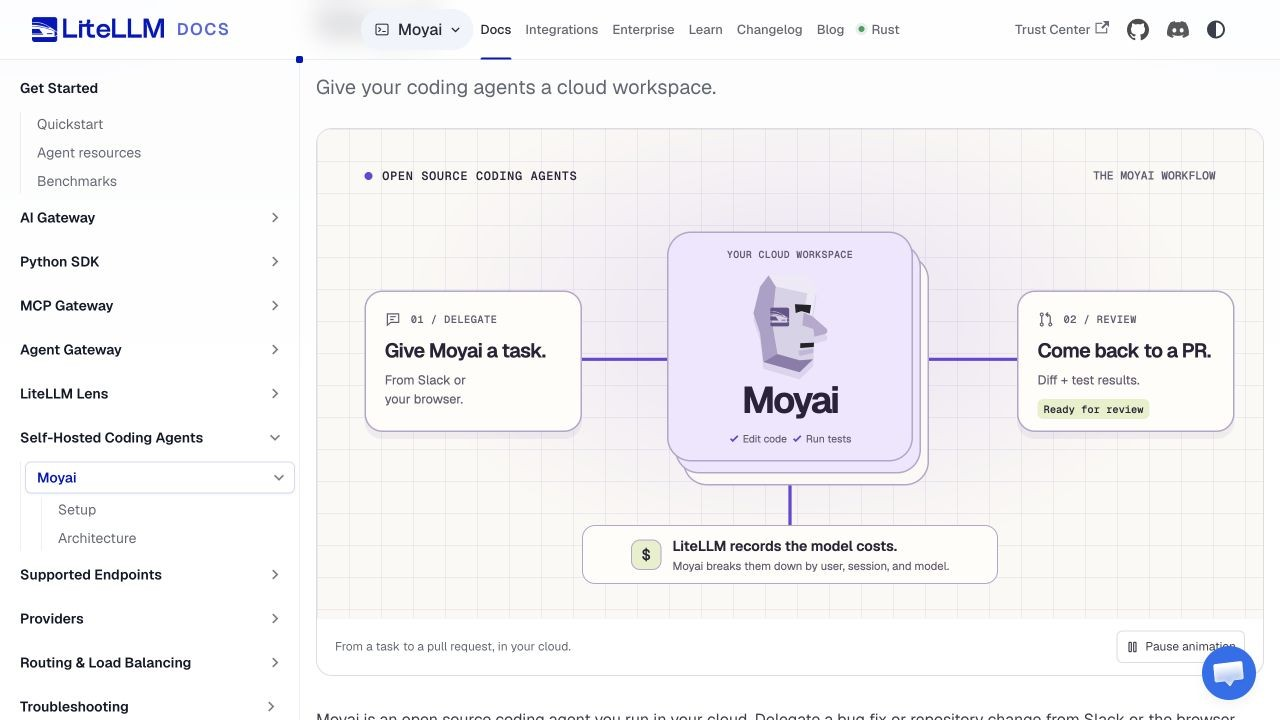
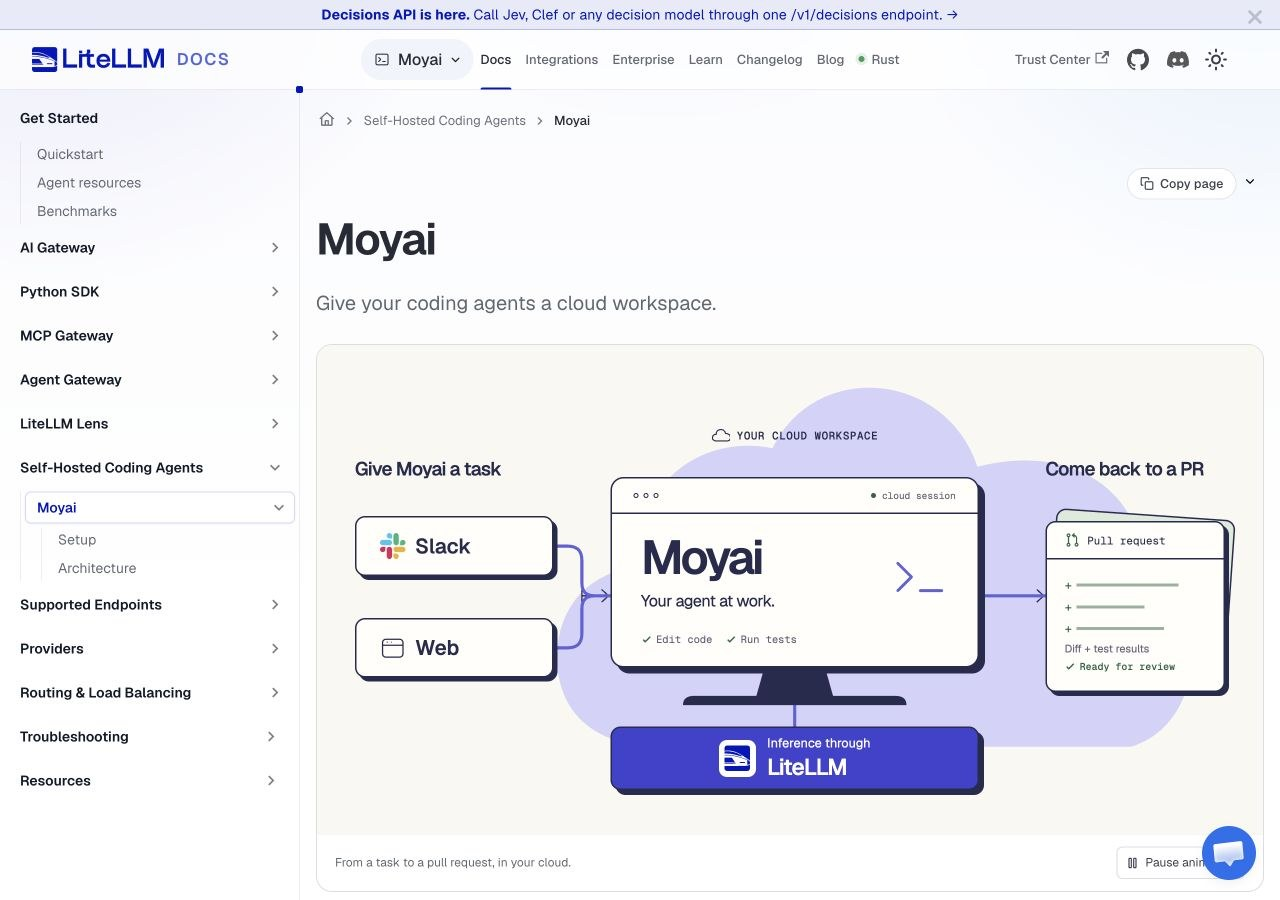
docs: illustrate Moyai task-to-PR cloud workflow

diff --git a/static/animations/moyai-landing/index.html b/static/animations/moyai-landing/index.html
@@ -8,44 +8,53 @@
 @font-face{font-family:Geist;src:url('/animations/internal-devin-two-days/assets/geist-variable.woff2') format('woff2');font-weight:100 900;font-display:swap}
 @font-face{font-family:GeistMono;src:url('/animations/internal-devin-two-days/assets/geist-mono-variable.woff2') format('woff2');font-weight:100 900;font-display:swap}
 *{box-sizing:border-box}html,body{margin:0;width:100%;height:100%;overflow:hidden}
-:root{--ink:#292337;--muted:#655c72;--violet:#6846d6;--paper:#fbf9f5;--card:#fffdf9;--line:#b4a6cc;--lavender:#eee6ff;--sage:#e5efc9;--grid:#c5b9d33d}
-[data-theme=dark]{--ink:#f2ecff;--muted:#c1b5d2;--violet:#b69afc;--paper:#211c2b;--card:#2b2537;--line:#79668d;--lavender:#382b51;--sage:#33432e;--grid:#ae91cd1f}
-.stage{width:100%;height:100%;position:relative;container-type:inline-size;font-family:Geist,Arial,sans-serif;color:var(--ink);background:var(--paper)}
-.scene{position:absolute;inset:0;background-image:linear-gradient(var(--grid) 1px,transparent 1px),linear-gradient(90deg,var(--grid) 1px,transparent 1px);background-size:32px 32px}
-.scene::before{content:'';position:absolute;inset:0;background:radial-gradient(ellipse at 51% 39%,#ad8bec36,transparent 58%);pointer-events:none}
-.eyebrow{position:absolute;top:8%;left:5%;display:flex;align-items:center;gap:10px;font:500 1.25cqw GeistMono,monospace;letter-spacing:.06em;text-transform:uppercase}
-.eyebrow i{width:8px;height:8px;border-radius:50%;background:var(--violet)}
-.corner{position:absolute;top:8%;right:5%;color:var(--muted);font:500 1.2cqw GeistMono,monospace}
-.wires{position:absolute;inset:0;width:100%;height:100%;overflow:visible}
-.wires path{fill:none;stroke:var(--line);stroke-width:2;stroke-linecap:round}
-.wires .signal{stroke:var(--violet);stroke-width:4}
-.node{position:absolute;top:33%;width:23%;height:29%;border:1.5px solid var(--line);border-radius:18px;background:var(--card);padding:2cqw;box-shadow:0 7px 0 #a895c522}
-.task{left:5%}.result{left:74%}
-.node-label{display:flex;align-items:center;gap:9px;font:500 1.1cqw GeistMono,monospace;letter-spacing:.04em;text-transform:uppercase;color:var(--muted)}
-.node-label svg{width:1.8cqw;height:1.8cqw;flex-shrink:0}
-.node h2{font-size:2.1cqw;line-height:1.2;letter-spacing:-.03em;margin:1.2cqw 0 .8cqw;font-weight:600}
-.node p{font-size:1.35cqw;line-height:1.5;margin:0;color:var(--muted)}
-.workspace{position:absolute;left:37%;top:21%;width:26%;height:47%;isolation:isolate}
-.plate{position:absolute;inset:0;border:1.5px solid var(--line);border-radius:24px;background:var(--lavender);z-index:0;transform:translate(8px,12px)}
-.plate.back{transform:translate(16px,24px);background:var(--paper)}
-.surface{height:100%;position:relative;z-index:1;display:flex;align-items:center;flex-direction:column;justify-content:center;border:1.5px solid var(--line);border-radius:24px;background:var(--lavender);padding:1.4cqw 1.1cqw}
-.cloud-label{font:500 1.05cqw GeistMono,monospace;color:var(--muted);letter-spacing:.035em;text-transform:uppercase}
-.moyai-logo{display:block;height:11.2cqw;width:9cqw;object-fit:contain;margin:1cqw 0 .6cqw;filter:drop-shadow(0 7px 0 #38285218)}
-.wordmark{font-size:3.9cqw;font-weight:650;line-height:1;letter-spacing:-.055em}
-.steps{display:flex;justify-content:center;gap:.5cqw;width:100%;margin-top:1.4cqw}
-.step{display:flex;align-items:center;gap:.3cqw;color:var(--muted);font-size:1.1cqw;white-space:nowrap}
-.step svg{width:1.2cqw;height:1.2cqw;stroke:var(--violet);stroke-width:2.5;fill:none}
-.receipt{position:absolute;left:28%;top:81%;width:44%;height:12%;display:flex;align-items:center;justify-content:center;gap:1.2cqw;border:1px solid var(--line);border-radius:13px;background:var(--card)}
-.receipt .symbol{display:grid;place-items:center;width:3.2cqw;height:3.2cqw;border:1px solid var(--line);border-radius:9px;background:var(--sage);font:500 1.6cqw GeistMono,monospace}
-.receipt strong{font-size:1.5cqw;font-weight:600}.receipt p{margin:3px 0 0;color:var(--muted);font-size:1.2cqw}
-.done{display:inline-flex;align-items:center;gap:.5cqw;margin-top:1cqw;padding:.35cqw .65cqw;border-radius:6px;background:var(--sage);font:500 1.1cqw GeistMono,monospace;color:var(--ink)}
+:root{--bg:#faf8f2;--ink:#292b4e;--paper:#fffefa;--muted:#64647a;--cloud:#d4d3fa;--blue:#4142cf;--edge:#292b4e;--shadow:#292b4e;--sage:#dcebdc;--green:#286441;--accent:#6261d8}
+[data-theme=dark]{--bg:#202135;--ink:#f6f3ea;--paper:#303149;--muted:#c3c0d2;--cloud:#44446b;--edge:#9c9aba;--shadow:#131421;--sage:#344b41;--green:#c4ead4;--accent:#c2bbff}
+.stage{width:100%;height:100%;position:relative;container-type:inline-size;background:var(--bg);color:var(--ink);font-family:Geist,Arial,sans-serif}
+.scene{position:absolute;inset:0}
+.cloud-art{position:absolute;left:24%;top:5%;width:69%;height:85%;fill:var(--cloud)}
+.cloud-caption{position:absolute;left:31%;top:17%;width:39%;display:flex;align-items:center;justify-content:center;gap:.7cqw;font:500 1.15cqw GeistMono,monospace;letter-spacing:.05em}
+.cloud-caption svg{width:2cqw;height:1.6cqw;fill:none;stroke:currentColor;stroke-width:1.7}
+.section-label{position:absolute;top:23%;margin:0;font-size:2cqw;font-weight:550;letter-spacing:-.035em;line-height:1.2}
+.task-label{left:4%;width:23%}.result-label{left:77%;width:20%}
+.source-group{position:absolute;left:4%;top:35%;width:21%;height:33%}
+.source{position:absolute;width:100%;height:37%;border:1.6px solid var(--edge);border-radius:10px;background:var(--paper);display:flex;align-items:center;padding:0 12%;gap:1cqw;box-shadow:4px 4px 0 var(--shadow);font-size:2.2cqw;font-weight:550}
+.source img,.source svg{width:2.7cqw;height:2.7cqw;flex:none}.slack{top:0}.web{bottom:0}
+.wires{position:absolute;inset:0;width:100%;height:100%;fill:none;stroke:var(--edge);stroke-width:1.6}
+.wires .signal{stroke:var(--accent);stroke-width:4;stroke-linecap:round}
+.computer{position:absolute;left:31%;top:27%;width:39%;height:39%;border:1.6px solid var(--edge);border-radius:13px;background:var(--paper);box-shadow:6px 6px 0 var(--shadow);z-index:2;overflow:hidden}
+.chrome{height:19%;border-bottom:1.5px solid var(--edge);display:flex;align-items:center;justify-content:space-between;padding:0 6%;font:400 1cqw GeistMono,monospace;color:var(--muted)}
+.chrome-dots{display:flex;gap:5px}.chrome-dots i{width:5px;height:5px;border:1px solid var(--edge);border-radius:50%}
+.session-indicator{display:flex;align-items:center;gap:6px}.session-indicator i{width:5px;height:5px;border-radius:50%;background:var(--green)}
+.workspace{height:81%;display:flex;flex-direction:column;justify-content:center;padding:4% 8%}
+.name{font-size:5cqw;font-weight:600;letter-spacing:-.06em;line-height:1}
+.tagline{font-size:1.7cqw;letter-spacing:-.025em;margin-top:3%}
+.tools{display:flex;gap:1.4cqw;margin-top:7%;font:400 1.1cqw GeistMono,monospace;color:var(--muted)}
+.tools span{display:flex;align-items:center;gap:.4cqw}.tools svg{width:1.2cqw;height:1.2cqw;stroke:var(--green);stroke-width:2;fill:none}
+.code-mark{position:absolute;right:8%;top:40%;width:16%;height:25%;color:var(--accent);fill:none;stroke:currentColor;stroke-width:3;stroke-linecap:round;stroke-linejoin:round}
+.stand{position:absolute;left:37%;top:66%;width:27%;height:8%;fill:var(--shadow);z-index:1}
+.inference{position:absolute;left:31%;top:78%;width:39%;height:13%;display:flex;align-items:center;justify-content:center;gap:1.2cqw;border:1.6px solid var(--edge);border-radius:10px;background:var(--blue);box-shadow:5px 5px 0 var(--shadow);color:#fffefa}
+.brand-tile{width:3.9cqw;height:3.9cqw;border-radius:8px;background:#fffefa;display:grid;place-items:center;flex:none}.brand-tile img{width:2.7cqw;height:2.7cqw}
+.inference-copy{font-size:1.35cqw;line-height:1.35}.inference-copy strong{font-size:2.4cqw;letter-spacing:-.035em;font-weight:550;display:block}
+.result{position:absolute;left:77%;top:36%;width:19%;height:35%;z-index:2}
+.sheet-back{position:absolute;inset:0;border:1.6px solid var(--edge);border-radius:10px;background:var(--sage);transform:translate(5px,-7px) rotate(4deg)}
+.pull-request{position:absolute;inset:0;border:1.6px solid var(--edge);border-radius:10px;background:var(--paper);box-shadow:4px 4px 0 var(--shadow);overflow:hidden}
+.pr-header{height:22%;padding:0 10%;display:flex;align-items:center;gap:.7cqw;border-bottom:1.5px solid var(--edge);font:400 1.15cqw GeistMono,monospace}.pr-header svg{width:1.7cqw;height:1.7cqw;fill:none;stroke:var(--green);stroke-width:1.8;flex:none}
+.pr-body{padding:10%;height:78%;display:flex;flex-direction:column;justify-content:space-between}
+.diff{display:flex;flex-direction:column;gap:.6cqw}.diff-line{display:flex;align-items:center;gap:.5cqw;color:var(--green);font:400 1.3cqw GeistMono,monospace}.diff-line i{height:3px;width:72%;background:currentColor;opacity:.5}.diff-line:nth-child(2) i{width:48%}.diff-line:nth-child(3) i{width:62%}
+.result-detail{font-size:1.15cqw;color:var(--muted)}
+.ready{display:flex;align-items:center;gap:.4cqw;font:500 1.05cqw GeistMono,monospace;color:var(--green)}.ready svg{width:1.2cqw;height:1.2cqw;fill:none;stroke:currentColor;stroke-width:2}
 .mobile-wire{display:none}
 @media(max-width:599px){
- .scene{background-size:24px 24px}.eyebrow,.corner{display:none}
- .node{height:16%;width:86%;left:7%;padding:14px 18px;border-radius:13px;display:grid;grid-template-columns:1fr auto;align-content:center;column-gap:12px}
- .task{top:4%}.result{top:70%}.node-label{font-size:9px;gap:5px;grid-column:1}.node-label svg{width:13px;height:13px}.node h2{font-size:16px;margin:5px 0 0;grid-column:1}.node p{font-size:11px;grid-column:2;grid-row:1/3;align-self:center;max-width:105px}.done{font-size:10px;grid-column:2;grid-row:1/3;align-self:center;margin:0;padding:5px 7px}.result p{display:none}
- .workspace{left:24%;top:28%;width:52%;height:33%}.surface{padding:11px;border-radius:18px}.plate{border-radius:18px;transform:translate(5px,7px)}.plate.back{transform:translate(10px,14px)}.cloud-label{font-size:9px}.moyai-logo{height:58px;width:48px;margin:8px 0 5px}.wordmark{font-size:30px}.steps{gap:8px;margin-top:10px}.step{font-size:9px;gap:3px}.step svg{width:10px;height:10px}
- .receipt{left:7%;top:90%;height:7%;width:86%;border:0;background:none;gap:8px}.receipt .symbol{width:25px;height:25px;font-size:13px;border-radius:7px}.receipt strong{font-size:11px}.receipt p{font-size:9px;margin-top:1px}
+ .cloud-art{left:5%;top:27%;width:91%;height:51%}
+ .section-label{font-size:19px;left:0;width:100%;text-align:center}.task-label{top:5%}.result-label{top:80%}
+ .source-group{left:10%;top:12%;width:80%;height:8%}.source{top:0;bottom:auto;width:44%;height:100%;padding:0;justify-content:center;font-size:17px;gap:8px;border-radius:8px;box-shadow:3px 3px 0 var(--shadow)}.web{left:56%}.source img,.source svg{width:23px;height:23px}
+ .cloud-caption{left:12%;top:28%;width:76%;font-size:10px;gap:7px}.cloud-caption svg{width:19px;height:15px}
+ .computer{left:12%;top:34%;width:76%;height:28%;border-radius:11px;box-shadow:5px 5px 0 var(--shadow)}.chrome{font-size:9px}.chrome-dots{gap:4px}.chrome-dots i{width:4px;height:4px}
+ .name{font-size:40px}.tagline{font-size:14px;margin-top:4px}.tools{font-size:10px;gap:14px;margin-top:12px}.tools span{gap:4px}.tools svg{width:12px;height:12px}.code-mark{stroke-width:2.5}
+ .stand{left:29%;top:62%;width:42%;height:5%}
+ .inference{left:17%;top:67%;width:66%;height:8%;gap:10px;border-radius:8px;box-shadow:4px 4px 0 var(--shadow)}.brand-tile{width:28px;height:28px;border-radius:5px}.brand-tile img{width:20px;height:20px}.inference-copy{font-size:10px;display:block;line-height:1.15}.inference-copy strong{font-size:17px}
+ .result{left:12%;top:87%;width:76%;height:8%}.sheet-back{transform:translate(4px,-4px) rotate(1deg);border-radius:8px}.pull-request{border-radius:8px;display:flex;align-items:center}.pr-header{height:100%;border:0;font-size:11px;padding:0 4%;gap:5px;white-space:nowrap}.pr-header svg{width:16px;height:16px}.pr-body{height:auto;padding:0 4% 0 0;margin-left:auto}.diff,.result-detail{display:none}.ready{font-size:9px;white-space:nowrap}.ready svg{display:none}
  .desktop-wire{display:none}.mobile-wire{display:block}
 }
 </style>
@@ -53,57 +62,68 @@
 <body>
 <main class="stage" data-composition-id="moyai" data-width="1200" data-height="620" data-duration="12">
  <div id="cloud-workflow" class="scene clip" data-start="0" data-duration="12" data-track-index="0">
-  <div class="eyebrow"><i></i>Open source coding agents</div><span class="corner">THE MOYAI WORKFLOW</span>
+  <svg class="cloud-art" viewBox="0 0 1000 650" preserveAspectRatio="none" aria-hidden="true"><path d="M180 590C70 590 20 530 20 450C20 370 70 315 150 307C135 185 235 100 350 123C415 -15 615 1 664 152C825 110 930 210 913 325C1029 375 1010 557 899 590Z"/></svg>
+  <div class="cloud-caption"><svg viewBox="0 0 28 22" aria-hidden="true"><path d="M7 19C-1 19 0 9 7 9C6 1 19-1 21 8C29 7 31 19 23 19Z"/></svg>YOUR CLOUD WORKSPACE</div>
+  <h2 class="section-label task-label">Give Moyai a task</h2>
+  <h2 class="section-label result-label">Come back to a PR</h2>
   <svg class="wires desktop-wire" viewBox="0 0 1200 620" preserveAspectRatio="none" aria-hidden="true">
-   <path d="M336 292H444"/><path d="M756 292H888"/><path d="M600 446V502"/>
-   <path class="signal route-in" d="M336 292H444"/><path class="signal route-out" d="M756 292H888"/><path class="signal route-cost" d="M600 446V502"/>
+   <path d="M300 255H318Q336 255 336 273V318 M300 384H318Q336 384 336 366V318H372 M361 310L370 318L361 326 M840 318H924 M913 310L922 318L913 326 M606 457V484"/>
+   <path class="signal route-in" d="M300 255H318Q336 255 336 273V302Q336 318 352 318H372"/>
+   <path class="signal route-in" d="M300 384H318Q336 384 336 366V334Q336 318 352 318H372"/>
+   <path class="signal route-model" d="M606 457V484"/>
+   <path class="signal route-out" d="M840 318H924"/>
   </svg>
-  <svg class="wires mobile-wire" viewBox="0 0 360 480" preserveAspectRatio="none" aria-hidden="true">
-   <path d="M180 96V134"/><path d="M180 308V336"/>
-   <path class="signal route-in" d="M180 96V134"/><path class="signal route-out" d="M180 308V336"/>
+  <svg class="wires mobile-wire" viewBox="0 0 360 560" preserveAspectRatio="none" aria-hidden="true">
+   <path d="M100 114V128H180 M260 114V128H180V146 M174 140L180 146L186 140 M180 422V444 M174 438L180 444L186 438"/>
+   <path class="signal route-in" d="M100 114V128H180V146"/><path class="signal route-in" d="M260 114V128H180V146"/>
+   <path class="signal route-out" d="M180 422V444"/>
   </svg>
-  <section class="node task">
-   <div class="node-label"><svg viewBox="0 0 24 24" fill="none" stroke="currentColor" stroke-width="1.7"><path d="M4 4h16v12H9l-5 4V4Z"/><path d="M8 8h8M8 12h5"/></svg>01 / Delegate</div>
-   <h2>Give Moyai a task.</h2><p>From Slack or<br />your browser.</p>
+  <div class="source-group">
+   <div class="source slack"><img src="/animations/internal-devin-two-days/assets/slack.svg" alt="" />Slack</div>
+   <div class="source web"><svg viewBox="0 0 30 30" fill="none" stroke="currentColor" stroke-width="1.5" aria-hidden="true"><rect x="3" y="5" width="24" height="21" rx="4"/><path d="M3 12H27 M8 8.5H9 M13 8.5H14"/></svg>Web</div>
+  </div>
+  <section class="computer" aria-label="Moyai cloud workspace">
+   <div class="chrome"><div class="chrome-dots" aria-hidden="true"><i></i><i></i><i></i></div><div class="session-indicator"><i></i>cloud session</div></div>
+   <div class="workspace"><strong class="name">Moyai</strong><div class="tagline">Your agent at work.</div><div class="tools"><span class="step-edit"><svg viewBox="0 0 16 16" aria-hidden="true"><path d="m3 8 3 3 7-7"/></svg>Edit code</span><span class="step-test"><svg viewBox="0 0 16 16" aria-hidden="true"><path d="m3 8 3 3 7-7"/></svg>Run tests</span></div></div>
+   <svg class="code-mark" viewBox="0 0 60 48" aria-hidden="true"><path d="M8 10L22 24L8 38 M31 38H53"/></svg>
   </section>
-  <section class="workspace">
-   <div class="plate back"></div><div class="plate front"></div>
-   <div class="surface">
-    <span class="cloud-label">Your cloud workspace</span>
-    <img class="moyai-logo" src="/img/blog/moyai_devin_open_source/moyai-head.svg" alt="" width="108" height="134" />
-    <strong class="wordmark">Moyai</strong>
-    <div class="steps"><span class="step step-edit"><svg viewBox="0 0 16 16"><path d="m3 8 3 3 7-7"/></svg>Edit code</span><span class="step step-test"><svg viewBox="0 0 16 16"><path d="m3 8 3 3 7-7"/></svg>Run tests</span></div>
+  <svg class="stand" viewBox="0 0 320 80" preserveAspectRatio="none" aria-hidden="true"><path d="M122 0H198L208 58H286Q300 58 300 77H20Q20 58 34 58H112Z"/></svg>
+  <div class="inference"><span class="brand-tile"><img src="/animations/internal-devin-two-days/assets/litellm.svg" alt="" /></span><div class="inference-copy">Inference through<strong>LiteLLM</strong></div></div>
+  <section class="result" aria-label="Pull request ready for review">
+   <div class="sheet-back" aria-hidden="true"></div>
+   <div class="pull-request">
+    <div class="pr-header"><svg viewBox="0 0 24 24" aria-hidden="true"><circle cx="6" cy="5" r="2"/><circle cx="6" cy="19" r="2"/><circle cx="18" cy="19" r="2"/><path d="M6 7v10M18 17V9a4 4 0 0 0-4-4h-2m3-3-3 3 3 3"/></svg>Pull request</div>
+    <div class="pr-body"><div class="diff" aria-hidden="true"><div class="diff-line">+<i></i></div><div class="diff-line">+<i></i></div><div class="diff-line">+<i></i></div></div><span class="result-detail">Diff + test results</span><span class="ready"><svg viewBox="0 0 16 16" aria-hidden="true"><path d="m3 8 3 3 7-7"/></svg>Ready for review</span></div>
    </div>
   </section>
-  <section class="node result">
-   <div class="node-label"><svg viewBox="0 0 24 24" fill="none" stroke="currentColor" stroke-width="1.7"><circle cx="6" cy="5" r="2"/><circle cx="6" cy="19" r="2"/><circle cx="18" cy="19" r="2"/><path d="M6 7v10M18 17V9a4 4 0 0 0-4-4h-2m3-3-3 3 3 3"/></svg>02 / Review</div>
-   <h2>Come back to a PR.</h2><p>Diff + test results.</p><span class="done">Ready for review</span>
-  </section>
-  <div class="receipt"><span class="symbol">$</span><div><strong>LiteLLM records the model costs.</strong><p>Moyai breaks them down by user, session, and model.</p></div></div>
  </div>
 </main>
 <script src="/animations/internal-devin-two-days/assets/gsap.min.js"></script>
 <script>
-// Path drawing adapted from the HyperFrames svg-line-draw-loader primitive.
-const tl = gsap.timeline({paused:true, defaults:{ease:'power3.out'}});
+// Finite, seekable composition; looping and user controls live in player.js.
+// Path drawing reuses the HyperFrames svg-line-draw-loader pattern.
+const tl = gsap.timeline({paused:true, defaults:{ease:'power2.inOut'}});
 document.querySelectorAll('.signal').forEach(path => {
  const length = path.getTotalLength();
  path.style.strokeDasharray = length;
- tl.fromTo(path,{strokeDashoffset:length},{strokeDashoffset:0,duration:0.8,ease:'power2.inOut'},path.classList.contains('route-in')?1.1:path.classList.contains('route-out')?5.8:3.2);
- tl.to(path,{opacity:0,duration:0.5},10.9);
+ const start = path.classList.contains('route-in') ? .6 : path.classList.contains('route-model') ? 2.5 : 5.8;
+ tl.fromTo(path,{strokeDashoffset:length},{strokeDashoffset:0,duration:.9},start);
+ tl.to(path,{opacity:0,duration:.4},11.2);
 });
-tl.fromTo('.task',{y:10,scale:0.97},{y:0,scale:1,duration:0.5},0);
-tl.fromTo('.workspace',{y:9},{y:0,duration:0.7},1.5);
-tl.fromTo('.step-edit svg',{scale:0},{scale:1,duration:0.4},2.4);
-tl.fromTo('.step-test svg',{scale:0},{scale:1,duration:0.4},4.4);
-tl.fromTo('.receipt .symbol',{scale:0.86},{scale:1,duration:0.5},3.8);
-tl.fromTo('.result',{y:8},{y:0,duration:0.6},6.3);
-tl.fromTo('.done',{scale:0.8,opacity:0},{scale:1,opacity:1,duration:0.5},6.6);
-tl.to('.done',{opacity:0,duration:0.4},11.2);
-tl.to('.step svg',{scale:0,duration:0.4},11.2);
-tl.to('.result',{y:8,duration:0.4},11.2);
-tl.to('.workspace',{y:9,duration:0.4},11.6);
-tl.to('.task',{y:10,scale:0.97,duration:0.4},11.6);
+tl.fromTo('.source',{y:3},{y:0,duration:.5,stagger:.15},0);
+tl.fromTo('.code-mark',{x:-3,opacity:.55},{x:0,opacity:1,duration:.6},1.6);
+tl.fromTo('.step-edit svg',{scale:0},{scale:1,duration:.4,ease:'back.out(1.4)'},2.6);
+tl.fromTo('.brand-tile',{scale:.9},{scale:1,duration:.5},3);
+tl.fromTo('.step-test svg',{scale:0},{scale:1,duration:.4,ease:'back.out(1.4)'},4.6);
+tl.fromTo('.diff-line i',{scaleX:.15,transformOrigin:'left center'},{scaleX:1,duration:.6,stagger:.12},6);
+tl.fromTo('.sheet-back',{rotation:0},{rotation:4,duration:.6},6);
+tl.fromTo('.ready svg',{scale:0},{scale:1,duration:.4,ease:'back.out(1.4)'},7);
+tl.to('.tools svg,.ready svg',{scale:0,duration:.3},11.1);
+tl.to('.diff-line i',{scaleX:.15,duration:.4},11.2);
+tl.to('.sheet-back',{rotation:0,duration:.4},11.2);
+tl.to('.code-mark',{x:-3,opacity:.55,duration:.4},11.2);
+tl.to('.brand-tile',{scale:.9,duration:.4},11.6);
+tl.to('.source',{y:3,duration:.4},11.6);
 window.__timelines = window.__timelines || {};
 window.__timelines.moyai = tl;
 </script>

diff --git a/src/components/Moyai/index.js b/src/components/Moyai/index.js
@@ -60,7 +60,7 @@ export function MoyaiHero() {
           ref={frame}
           className={styles.heroFrame}
           src={source}
-          title="Illustrated Moyai workflow: delegate a task, run code and tests in your cloud, review a pull request. LiteLLM records model costs."
+          title="Illustrated Moyai workflow: give a task through Slack or Web, run it in Moyai’s cloud workspace with inference through LiteLLM, and come back to a pull request."
           onLoad={updatePlayer}
           scrolling="no"
         />

diff --git a/src/components/Moyai/styles.module.css b/src/components/Moyai/styles.module.css
@@ -77,7 +77,7 @@
   .setupCallout { flex-direction: column; align-items: flex-start; padding: 24px; }
 }
 @container (max-width: 599px) {
-  .heroFrame { aspect-ratio: auto; height: 480px; }
+  .heroFrame { aspect-ratio: auto; height: 560px; }
   .heroCaption { align-items: flex-start; font-size: 11px; padding: 12px; gap: 8px; }
 }
 @media (max-width: 600px) {
